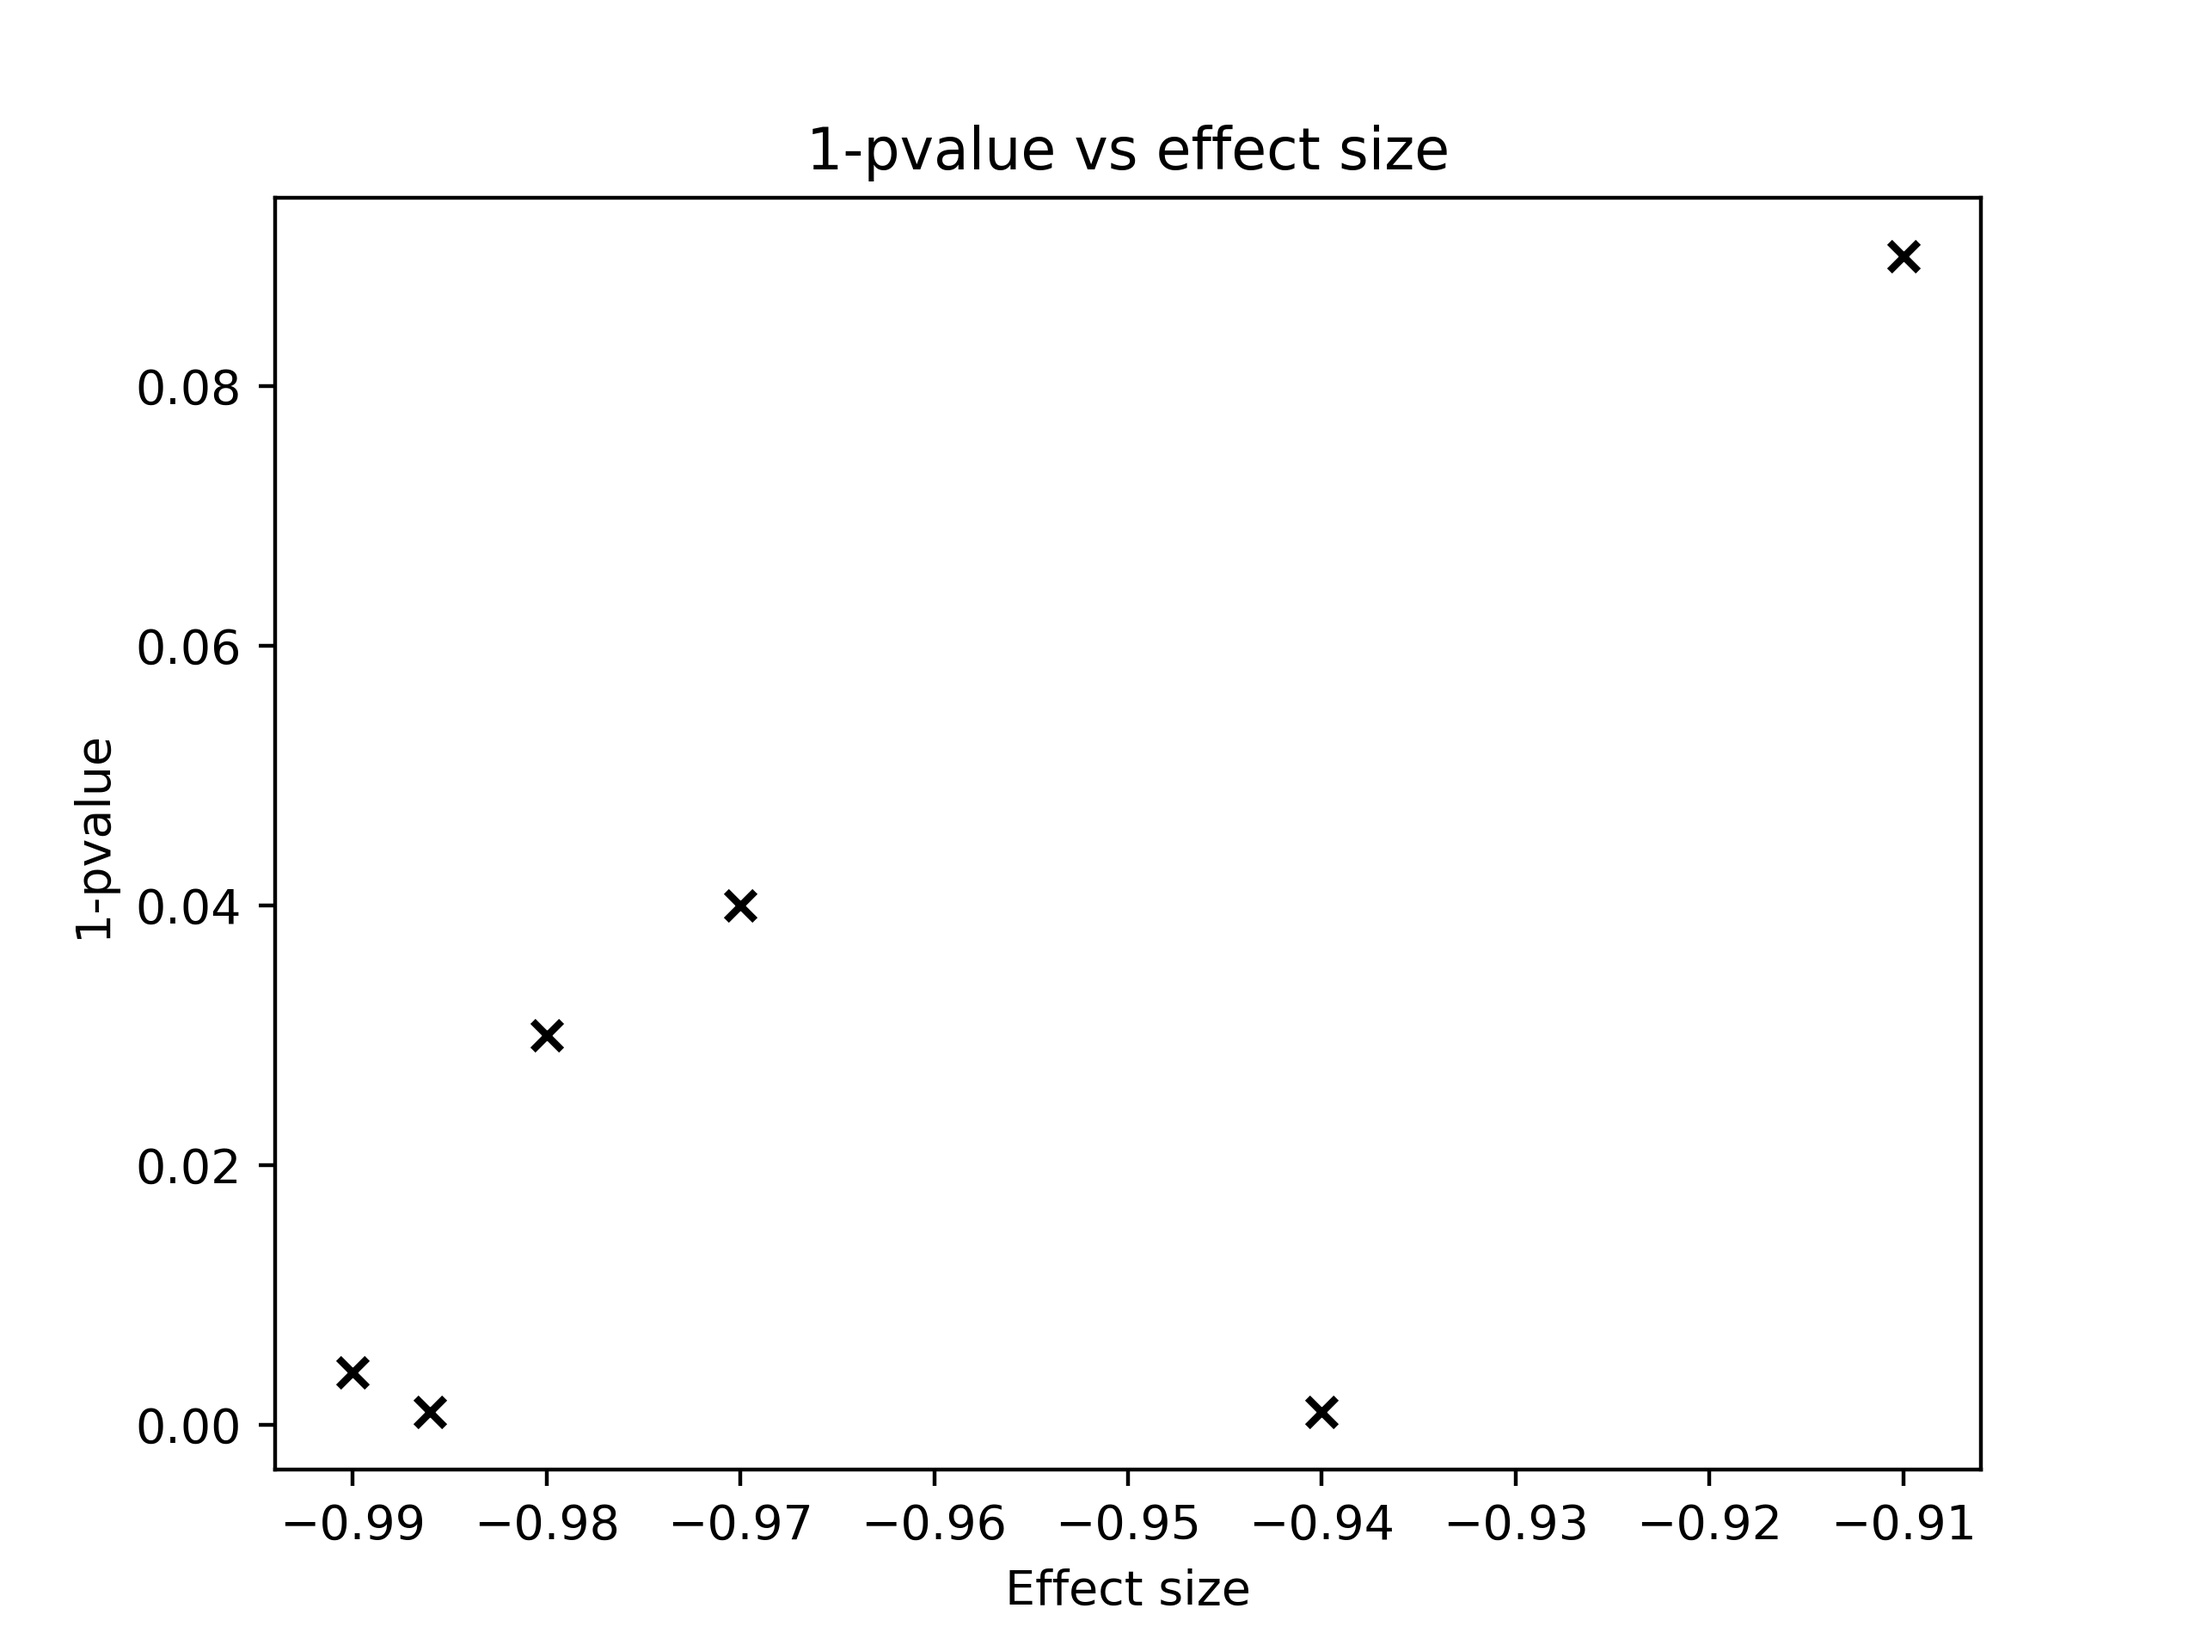
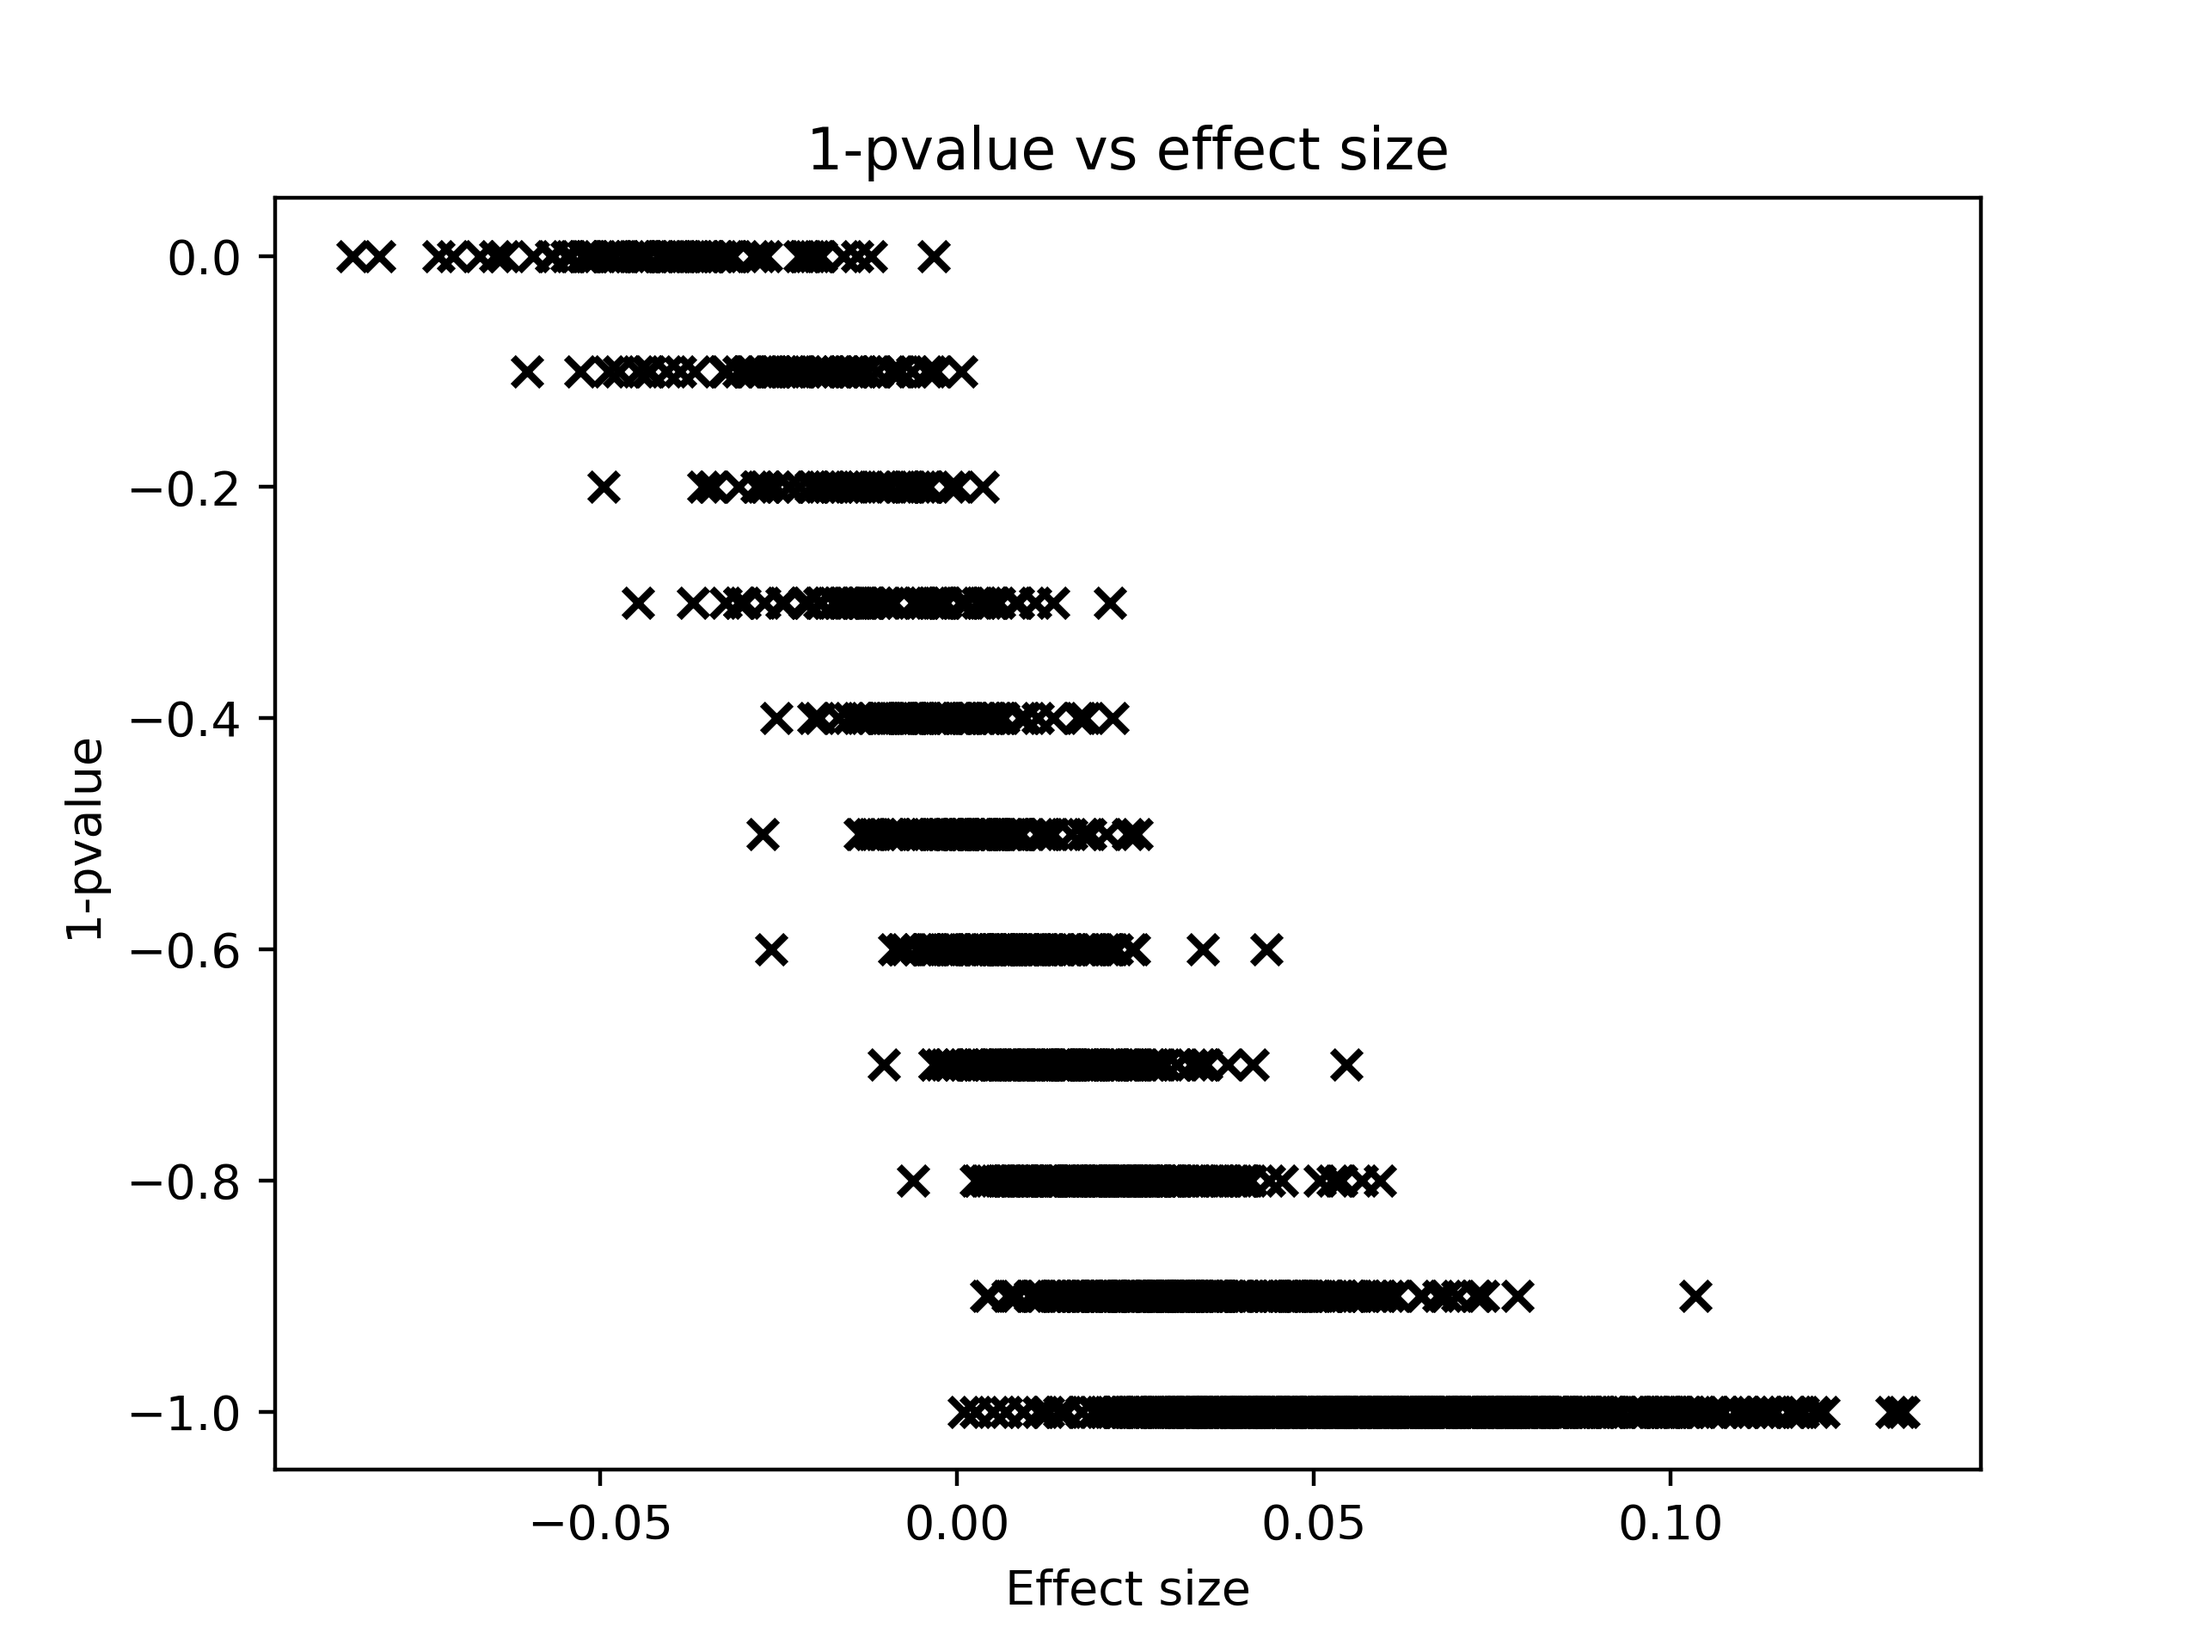
code runs but stats are probably wrong

diff --git a/main.py b/main.py
@@ -1,8 +1,28 @@
+#!/home/hpc/kurlanl1/courses/CSC-427/project4/NLP-Project-4/env/bin/python -u
+
+#SBATCH --chdir=/home/hpc/kurlanl1/courses/CSC-427/project4/NLP-Project-4
+#SBATCH --output=/home/hpc/kurlanl1/courses/CSC-427/project4/NLP-Project-4/job.name.%A.out
+#SBATCH --constraint=skylake|broadwell
+#SBATCH --job-name=NLP
+#SBATCH --partition=long
+
 """Driving file to produce deliverables as needed.
 """
 
+import sys
+
+sys.path.insert(0, "/home/hpc/kurlanl1/courses/CSC-427/project4/NLP-Project-4")
+
+from argparse import ArgumentParser
+from pathlib import Path
+
 from metrics import fscore
 from naive_bayes import NaiveBayesClassifier
+from split import n_docs_per_size, sizes
+from utils import choices
+
+
+b = 1000
 
 
 def get_x_y(path: str) -> tuple:
@@ -26,24 +46,126 @@ def get_x_y(path: str) -> tuple:
     return x, y
 
 
-def main() -> None:
-    """Main function."""
+def learn(training_sets_path: str) -> list:
+    """Learn the sixty classifiers.
 
-    x_train, y_train = get_x_y("./train.txt")
-    x_test, y_test = get_x_y("./test.txt")
+    Parameters
+    ----------
+    training_sets_path : str
+        Location of the trainingSets directory.
 
-    clf = NaiveBayesClassifier()
-    clf.fit(x_train, y_train)
-    preds = clf.predict(x_test)
-    f = fscore(preds, y_test)
-    print(f)
+    Returns
+    -------
+    list[NaiveBayesClassifier]
+        A list of learned classifiers.
+    """
+    systems = []
+    for size in sizes:
+        for i in range(1, n_docs_per_size + 1):
+            path = Path(training_sets_path) / str(size) / f"train{i}.txt"
+            x_train, y_train = get_x_y(path)
 
-    clf = NaiveBayesClassifier(binary=True)
-    clf.fit(x_train, y_train)
-    preds = clf.predict(x_test)
-    f = fscore(preds, y_test)
-    print(f)
+            clf_count = NaiveBayesClassifier()
+            clf_count.fit(x_train, y_train)
+            systems.append(clf_count)
+
+            clf_binary = NaiveBayesClassifier(binary=True)
+            clf_binary.fit(x_train, y_train)
+            systems.append(clf_binary)
+
+    return systems
+
+
+def bootstrap(test_file: str, systems: list) -> None:
+    """Perform bootstraping on the test set and create the results file.
+
+    Parameters
+    ----------
+    test_file : str
+        Location of a test file.
+    systems : list[NaiveBayesClassifier]
+        List of systems to perform bootstraping on.
+    """
+    with open(f"./output{b}.csv", "w") as f:
+        f.write("pval,effect_size,typeA,typeB\n")
+    x_test, y_test = get_x_y(test_file)
+    track = 0
+    pairs = set()
+    for i, clf_a in enumerate(systems):
+        for j, clf_b in enumerate(systems):
+            if clf_a is clf_b or (i, j) in pairs or (j, i) in pairs:
+                continue
+
+            pairs.add((i, j))
+            track += 1
+            if track % 10 == 0:
+                print(f"{track} / {1770} = {round(100 * track / 1770, 3)}%")
+
+            preds_a = clf_a.predict(x_test)
+            preds_b = clf_b.predict(x_test)
+
+            f_a = fscore(preds_a, y_test)
+            f_b = fscore(preds_b, y_test)
+            delta_f = abs(f_a - f_b)
+
+            n = len(preds_a)
+            s = 0
+            for _ in range(b):
+                idx = choices(list(range(n)), [1 for _ in range(n)], n)
+                preds_a_ = [preds_a[i] for i in idx]
+                preds_b_ = [preds_b[i] for i in idx]
+                y_test_ = [y_test[i] for i in idx]
+
+                f_a_ = fscore(preds_a_, y_test_)
+                f_b_ = fscore(preds_b_, y_test_)
+                delta_f_ = f_a_ - f_b_
+
+                s = s + 1 if delta_f_ >= 2 * abs(delta_f) else s
+
+            pval = s / b
+
+            with open(f"./output{b}.csv", "a") as f:
+                line = ",".join(
+                    [
+                        str(pval),
+                        str(delta_f),
+                        "b" if clf_a.binary else "c",
+                        "b" if clf_b.binary else "c",
+                    ]
+                )
+                f.write(line + "\n")
+
+
+def main(training_sets_path: str, test_file: str) -> None:
+    """Produce the deliverables.
+
+    Parameters
+    ----------
+    training_sets_path : str
+        Path to the training sets directory.
+    test_file : str
+        Path to the test file.
+    """
+    systems = learn(training_sets_path)
+    bootstrap(test_file, systems)
 
 
 if __name__ == "__main__":
-    main()
+    parser = ArgumentParser()
+
+    parser.add_argument(
+        "--training-sets-path",
+        action="store",
+        default="./trainingSets",
+        help="Unix-style path to the trainingSets directory.",
+    )
+    parser.add_argument(
+        "--test-file",
+        action="store",
+        default="./testMaster.txt",
+        help="Unix-style path to the test file.",
+    )
+
+    args = parser.parse_args()
+
+    main(args.training_sets_path, args.test_file)

diff --git a/utils.py b/utils.py
@@ -4,25 +4,25 @@
 import random
 
 
-def choice(population, weights):
+def choice(population: list, weights: list):
     """Choose an element from a population given probabilistic weights.
 
     Parameters
     ----------
     population : list[Any]
-      A population to choose an element from.
+        A population to choose an element from.
     weights : list[float | int]
-      Weights given to the choice.
+        Weights given to the choice.
 
     Returns
     -------
     Any
-      Returns an element of population.
+       Returns an element of population.
 
     Raises
     ------
     TypeError
-      If population and weights are not lists.
+        If population and weights are not lists.
     """
     if not (isinstance(population, list) and isinstance(weights, list)):
         raise TypeError("Parameters for choice() should be type list.")
@@ -40,21 +40,21 @@ def choice(population, weights):
     return population[i - 1]
 
 
-def choices(population, weights, k=1):
+def choices(population: list, weights: list, k: int = 1):
     """Choose k elements from a population given probabilistic weights.
 
     Parameters
     ----------
     population : list[Any]
-      A population to choose an element from.
+        A population to choose an element from.
     weights : list[float|int]
-      Weights given to the choice.
+        Weights given to the choice.
     k : int
-      Number of elements to choose. Defaults to 1.
+        Number of elements to choose. Defaults to 1.
 
     Returns
     -------
     list[Any]
-      Returns an element of population.
+        Returns an element of population.
     """
     return [choice(population, weights) for _ in range(k)]

diff --git a/plotting.py b/plotting.py
@@ -32,7 +32,7 @@ def pval_vs_effect_basic(input_file: str, output_file: str) -> None:
     pvals = df["pval"].to_numpy() - 1
     effect_sizes = df["effect_size"].to_numpy()
 
-    plt.scatter(pvals, effect_sizes, marker="x", color="black")
+    plt.scatter(effect_sizes, pvals, marker="x", color="black")
     plt.title("1-pvalue vs effect size")
     plt.ylabel("1-pvalue")
     plt.xlabel("Effect size")
@@ -60,11 +60,11 @@ def pval_vs_effect_system(input_file: str, output_file: str) -> None:
     # Plot the points which correspond to the same systems
     _pvals = [p for i, p in enumerate(pvals) if same_system[i]]
     _effect_sizes = [p for i, p in enumerate(effect_sizes) if same_system[i]]
-    plt.scatter(_pvals, _effect_sizes, marker="x", color="blue", label="Same systems")
+    plt.scatter(_effect_sizes, _pvals, marker="x", color="blue", label="Same systems")
     # Plot the points which correspond to the different systems
     _pvals = [p for i, p in enumerate(pvals) if not same_system[i]]
     _effect_sizes = [p for i, p in enumerate(effect_sizes) if not same_system[i]]
-    plt.scatter(_pvals, _effect_sizes, marker="o", color="red", label="Diff systems")
+    plt.scatter(_effect_sizes, _pvals, marker="o", color="red", label="Diff systems")
 
     plt.title("1-pvalue vs effect size")
     plt.ylabel("1-pvalue")

diff --git a/preprocess.py b/preprocess.py
@@ -58,13 +58,13 @@ if __name__ == "__main__":
     parser.add_argument(
         "--train-file",
         action="store",
-        default="train.txt",
+        default="trainMaster.txt",
         help="Unix-style path to the trainMaster.txt file.",
     )
     parser.add_argument(
         "--test-file",
         action="store",
-        default="test.txt",
+        default="testMaster.txt",
         help="Unix-style path to the testMaster.txt file.",
     )
 

diff --git a/split.py b/split.py
@@ -50,7 +50,7 @@ if __name__ == "__main__":
     parser.add_argument(
         "--train-file",
         action="store",
-        default="train.txt",
+        default="trainMaster.txt",
         help="Unix-style path to the trainMaster.txt file.",
     )
 

diff --git a/README.md b/README.md
@@ -1,7 +1,7 @@
 # Deliverables
 
 - D1: README.md
-- D2: ./train.txt, ./test.txt, ./trainingSets/
+- D2: ./trainMaster.txt, ./testMaster.txt, ./trainingSets/
 - D3: ./output.csv
 - D4: ./plot1.png, ./plot2.png
 - D5: report.pdf
@@ -26,12 +26,12 @@ python3 preprocess.py --data-path=<data_file> --train-path=<train_file> --test-p
 
 where
 - <data_file> is a Unix-style path to the fulldataLabeled.txt source file, e.g., ./fulldataLabeled.txt
-- <train_file> is a Unix-style path to the desired train file, e.g., ./train.txt
-- <test_file> is a Unix-style path to the desired test file, e.g., ./test.txt
+- <train_file> is a Unix-style path to the desired train file, e.g., ./trainMaster.txt
+- <test_file> is a Unix-style path to the desired test file, e.g., ./testMaster.txt
 
 For example,
 ```console
-python3 preprocess.py --data-file=./fulldataLabeled.txt --train-file=./train.txt --test-file=./test.txt
+python3 preprocess.py --data-file=./fulldataLabeled.txt --train-file=./trainMaster.txt --test-file=./testMaster.txt
 ```
 
 You can also run this program without command line arguments. For example,
@@ -41,8 +41,8 @@ python3 preprocess.py
 
 In this scenario, the following default arguments will be used
 - <data_file>="./fulldataLabeled.txt"
-- <train_file>="./train.txt"
-- <test_file>"./test.txt"
+- <train_file>="./trainMaster.txt"
+- <test_file>"./testMaster.txt"
 
 For help with this program,
 ```console
@@ -57,11 +57,11 @@ python3 split.py train-file=<train_file>
 ```
 
 where
-- <train_file> is a Unix-style path to the desired train file, e.g., ./train.txt
+- <train_file> is a Unix-style path to the desired train file, e.g., ./trainMaster.txt
 
 For example,
 ```console
-python3 split.py --train-file=./train.txt
+python3 split.py --train-file=./trainMaster.txt
 ```
 
 You can also run this program without command line arguments. For example,
@@ -70,7 +70,7 @@ python3 split.py
 ```
 
 In this scenario, the following default arguments will be used
-- <train_file>="./train.txt"
+- <train_file>="./trainMaster.txt"
 
 For help with this program,
 ```console
